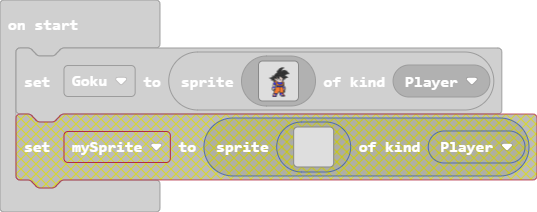
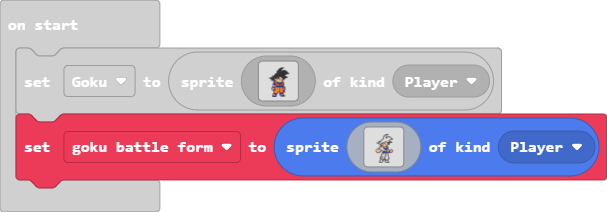
Update pxt.json, main.blocks, main.ts, images.g.jres, images.g.ts

diff --git a/images.g.ts b/images.g.ts
@@ -109,6 +109,69 @@ fffffffffffffffffffff.............
 .......ffffff.......f8828f........
 ....................ffffff........
 `;
+            case "[NtOI*Pj4b,yaY/nf|P,":
+            case "goku battle form":return img`
+..................................................
+..................................................
+..................................................
+..................................................
+..................................................
+..................................................
+..............................fffff...............
+............................ff..f.................
+...........................f...f..................
+..........................f....f..................
+..........................f...f...fff.............
+.........................f....f..f...ff...........
+.........................f....f.f......f..........
+.........................f.....f........f.........
+.........................f...............f........
+.......................ff..............ffff.......
+......................f..............ff...........
+.....................f..............f.............
+.....................f.............f..............
+................fffff........f......fff...........
+...................f........fdff.......ff.........
+................fff......f..fdddffffffffff........
+.............fff......f.fdf.fddddfffff............
+...............ff....fdffddffdddddff..............
+.................fff.fddfdf11fddddfff.............
+....................ffddddf11ffddf..f.............
+....................fdffdddddddddf................
+.....................ffffdddddddf.................
+...................ff.fddffddddff.................
+..................f..f.fdddfffff.f................
+..................f...f.ffddddddf.f...............
+.................f.......fffdddf9.f...............
+.................ff.......f9fff89.f...............
+..............ff.fdf.......f98889.f...............
+.............fddffddf.......f989..f....f..........
+............fddddfdddf...f...f9f.fdf..f1ff........
+...........fdddddddddff...f...f..fddfffdddf.......
+...........fddddddddf..f...f....fddd98fdddf.......
+............fdddddddf...fffff999fdd98fddddf.......
+............fdddddff....f8888888ffdf8fdddf........
+.............fffff.....ffffff999f.fffffff.........
+.......................f..f..f.f.f................
+......................f..f...f...f................
+......................f..f...f....f...............
+......................f......f....f...............
+.....................f.......f....f...............
+.....................f.......f....f...............
+....................f.f.....f.....f...............
+....................f..ff...f.....f...............
+....................f.......f......f..............
+...................fff......f......f..............
+...................f..ff...f.......f..............
+...................f.....ffff......f..............
+....................fff...f.f.....f...............
+...................f...fff..ffffff................
+...................f....f...f....f................
+..................f.....f...f....f................
+..................f....f....f.....f...............
+..................f....f.....f.....f..............
+..................fffff.......ffffff..............
+`;
         }
         return null;
     })

diff --git a/main.ts b/main.ts
@@ -1,1 +1,2 @@
 let Goku = sprites.create(assets.image`goku`, SpriteKind.Player)
+let goku_battle_form = sprites.create(assets.image`goku battle form`, SpriteKind.Player)
